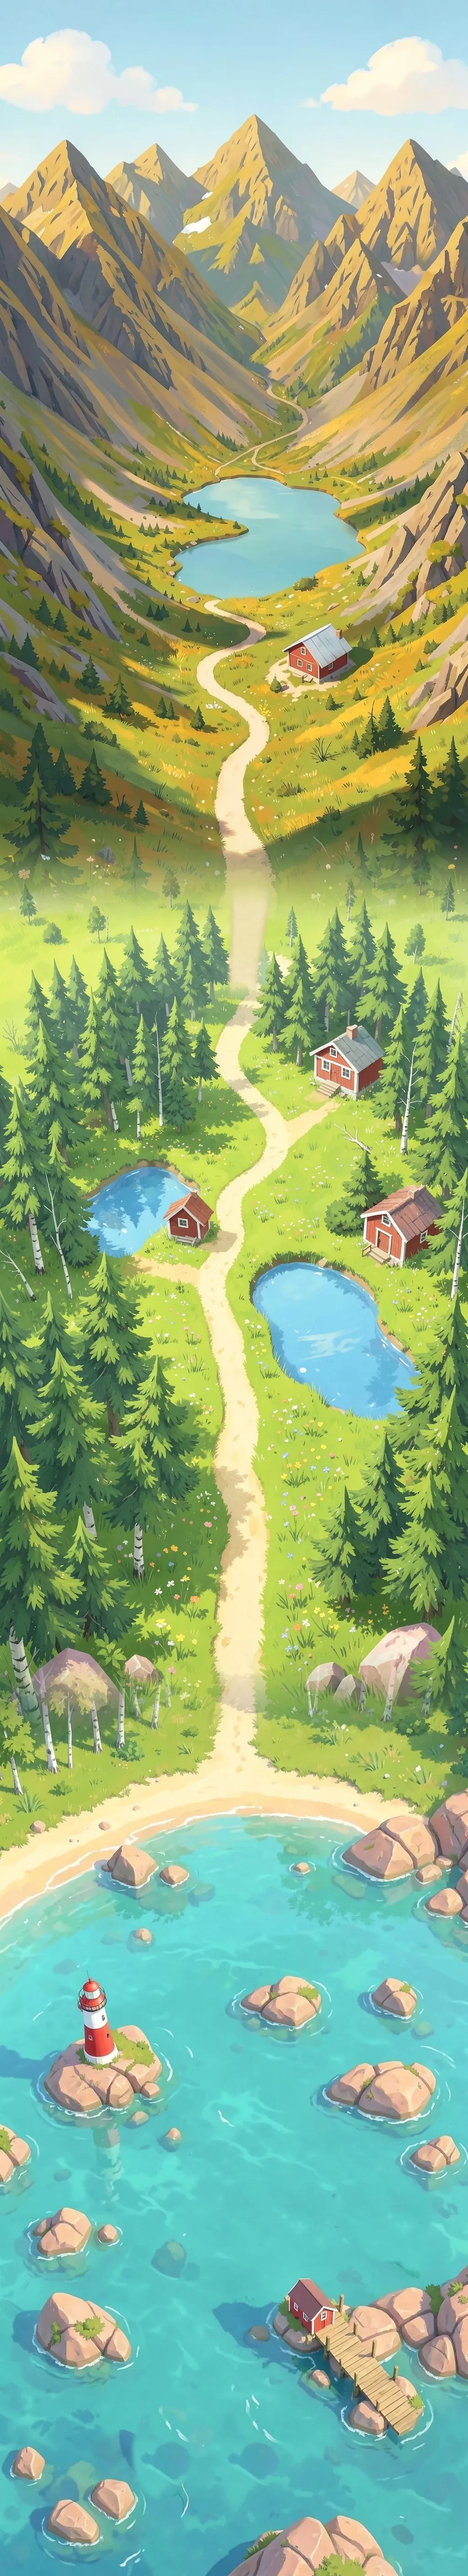
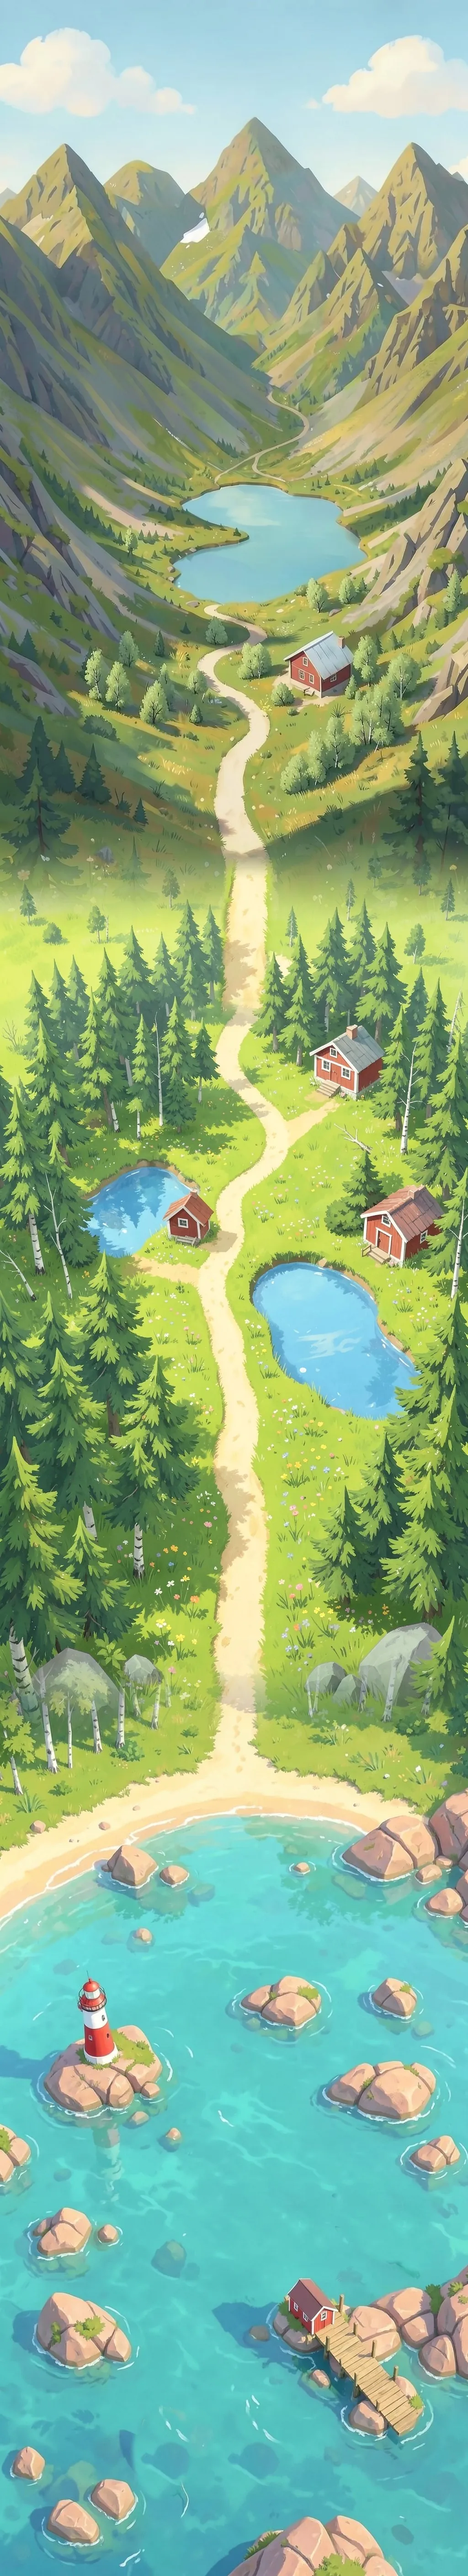
Rockets, fireworks and the pearl as their own tiles (0.17.0)
Jonas chose option A: specials are their own pictures with no kind, as
in the big puzzle games. Four in a row leaves a rocket lying along the
line it clears, an L or T leaves fireworks, and five in a row leaves a
pearl showing every kind, replacing the compass he found unclear. A
special goes off when tapped (one move), swapped with any neighbour or
cleared by something else. Also takes the corrected map image and nodes.

Claude-Session: https://claude.ai/code/session_01NPdWPZWdpsnwHPQWEvx24M

Changed region(s): [[0.0, 0.0312, 1.0, 0.4062], [0.6562, 0.625, 0.9375, 0.6562], [0.125, 0.625, 0.3438, 0.6875]]

diff --git a/src/game/Match3Scene.ts b/src/game/Match3Scene.ts
@@ -1,6 +1,6 @@
 import { play as playSound, playMatch } from '../lib/audio/sound';
 import Phaser from 'phaser';
-import { BOMB, type Cell, type Match3, type Special, type Step } from '../lib/match3/engine';
+import { BOMB, isFree, type Cell, type Match3, type Special, type Step } from '../lib/match3/engine';
 import { TILES } from '../lib/match3/levels';
 import { DEEP, FRAME } from './palette';
 
@@ -9,7 +9,8 @@ type Tile = Phaser.GameObjects.Container;
 /**
  * Draws a Match3 board and animates its steps. Svelte puts the engine in the
  * registry as 'match3'; the scene tells Svelte about each finished move with
- * the game event 'match3:moved'. Tap two neighbours or swipe to swap.
+ * the game event 'match3:moved'. Tap two neighbours or swipe to swap; a tap on
+ * a rocket, fireworks or the pearl sets it off.
  */
 export class Match3Scene extends Phaser.Scene {
   private engine?: Match3;
@@ -40,6 +41,7 @@ export class Match3Scene extends Phaser.Scene {
 
   preload(): void {
     for (const name of TILES) this.load.image(`tile-${name}`, `/art/tiles/${name}.png`);
+    for (const name of ['raket', 'fyrverkeri', 'parla']) this.load.image(`sp-${name}`, `/art/tiles/${name}.png`);
   }
 
   create(): void {
@@ -235,92 +237,24 @@ export class Match3Scene extends Phaser.Scene {
 
   private makeTile(kind: number, at: { x: number; y: number }, special: Special = null): Tile {
     const size = this.cell * 0.86;
-    if (kind === BOMB) return this.add.container(at.x, at.y, [this.compass(size)]).setDepth(1);
-    const parts: Phaser.GameObjects.GameObject[] = [];
-    if (special) parts.push(this.specialMark(special, size));
-    const shadow = this.add.image(0, 2 * this.k, `tile-${TILES[kind]}`).setDisplaySize(size, size).setTint(0x000000).setAlpha(0.25);
-    const img = this.add.image(0, 0, `tile-${TILES[kind]}`).setDisplaySize(size, size);
-    parts.push(shadow, img);
-    if (special === 'row' || special === 'col') parts.push(this.arrows(special, size));
-    return this.add.container(at.x, at.y, parts).setDepth(1);
-  }
-
-  /** Behind a special tile: a warm glow, and a lifebuoy ring for the area tile. */
-  private specialMark(special: Special, size: number): Phaser.GameObjects.Graphics {
-    const g = this.add.graphics();
-    g.fillStyle(0xffe7a3, 0.85).fillCircle(0, 0, size * 0.5);
-    if (special === 'area') {
-      const w = size * 0.11;
-      for (let i = 0; i < 8; i++) {
-        g.lineStyle(w, i % 2 ? 0xffffff : 0xc0392b, 1);
-        g.beginPath();
-        g.arc(0, 0, size * 0.47, (i * Math.PI) / 4, ((i + 1) * Math.PI) / 4);
-        g.strokePath();
-      }
+    if (!isFree(kind)) {
+      const shadow = this.add.image(0, 2 * this.k, `tile-${TILES[kind]}`).setDisplaySize(size, size).setTint(0x000000).setAlpha(0.25);
+      const img = this.add.image(0, 0, `tile-${TILES[kind]}`).setDisplaySize(size, size);
+      return this.add.container(at.x, at.y, [shadow, img]).setDepth(1);
     }
-    return g;
-  }
-
-  /** Over a row or column tile: two white arrows pointing the way it clears. */
-  /**
-   * Over a row or column tile: white stripes across the tile and one big
-   * double arrow along the line it clears (Jonas: the small arrows were
-   * unclear). The stripes run the same way as the arrow.
-   */
-  private arrows(special: 'row' | 'col', size: number): Phaser.GameObjects.Graphics {
-    const g = this.add.graphics();
-    const across = special === 'row';
-    const half = size * 0.5;
-    // stripes
-    g.fillStyle(0xffffff, 0.55);
-    for (const o of [-0.26, 0, 0.26]) {
-      const t = size * 0.07;
-      if (across) g.fillRect(-half, o * size - t / 2, size, t);
-      else g.fillRect(o * size - t / 2, -half, t, size);
-    }
-    // the arrow: a shaft and two heads reaching past the tile edges
-    const len = size * 0.62;
-    const head = size * 0.2;
-    const w = size * 0.09;
-    const draw = (fill: number, grow: number) => {
-      g.fillStyle(fill, 1);
-      const L = len + grow;
-      const H = head + grow;
-      const W = w + grow;
-      if (across) {
-        g.fillRect(-L + H, -W / 2, 2 * (L - H), W);
-        g.fillTriangle(-L, 0, -L + H, -H * 0.8, -L + H, H * 0.8);
-        g.fillTriangle(L, 0, L - H, -H * 0.8, L - H, H * 0.8);
-      } else {
-        g.fillRect(-W / 2, -L + H, W, 2 * (L - H));
-        g.fillTriangle(0, -L, -H * 0.8, -L + H, H * 0.8, -L + H);
-        g.fillTriangle(0, L, -H * 0.8, L - H, H * 0.8, L - H);
-      }
-    };
-    draw(DEEP, this.k * 3); // outline
-    draw(0xffd34d, 0);
-    return g;
-  }
-
-  /** The compass from five in a row: a gold rim and an eight-pointed star. */
-  private compass(size: number): Phaser.GameObjects.Graphics {
-    const g = this.add.graphics();
-    const R = size * 0.46;
-    g.fillStyle(0x000000, 0.25).fillCircle(0, 2 * this.k, R);
-    g.fillStyle(0xd9a441, 1).fillCircle(0, 0, R);
-    g.fillStyle(0xfff8ec, 1).fillCircle(0, 0, R * 0.84);
-    const star = (len: number, color: number, offset: number) => {
-      for (let i = 0; i < 4; i++) {
-        const t = offset + (i * Math.PI) / 2;
-        const tip = { x: Math.cos(t) * len, y: Math.sin(t) * len };
-        const l = { x: Math.cos(t + Math.PI / 2) * len * 0.22, y: Math.sin(t + Math.PI / 2) * len * 0.22 };
-        g.fillStyle(color, 1).fillTriangle(tip.x, tip.y, l.x, l.y, -l.x, -l.y);
-      }
-    };
-    star(R * 0.62, 0x2c5d7c, Math.PI / 4);
-    star(R * 0.8, 0xb8382a, -Math.PI / 2);
-    g.fillStyle(0xd9a441, 1).fillCircle(0, 0, R * 0.12);
-    return g;
+    // Option A (Jonas, 2026-11-17): specials are their own pictures, with no kind.
+    // A rocket lies along the line it clears; the pearl shows every kind it can take.
+    const name = kind === BOMB ? 'parla' : special === 'area' ? 'fyrverkeri' : 'raket';
+    const glow = this.add.graphics();
+    glow.fillStyle(0xffe7a3, 0.8).fillCircle(0, 0, size * 0.5);
+    const big = kind === BOMB ? size : special === 'area' ? size * 0.98 : size * 1.15;
+    const shadow = this.add.image(0, 2 * this.k, `sp-${name}`).setDisplaySize(big, big).setTint(0x000000).setAlpha(0.25);
+    const img = this.add.image(0, 0, `sp-${name}`).setDisplaySize(big, big);
+    if (special === 'col') { shadow.setAngle(-90); img.setAngle(-90); }
+    const t = this.add.container(at.x, at.y, [glow, shadow, img]).setDepth(1);
+    // a slow breath so the player sees it can be used
+    this.tweens.add({ targets: glow, alpha: 0.35, duration: 700, yoyo: true, repeat: -1, ease: 'Sine.easeInOut' });
+    return t;
   }
 
   /** A quick flash where a special went off. */
@@ -375,6 +309,11 @@ export class Match3Scene extends Phaser.Scene {
       void this.swap(s, cell);
       return;
     }
+    if (this.engine && isFree(this.engine.board[cell.r][cell.c])) {
+      this.select(null);
+      void this.fire(cell);
+      return;
+    }
     this.select(s && s.r === cell.r && s.c === cell.c ? null : cell);
   }
 
@@ -409,6 +348,27 @@ export class Match3Scene extends Phaser.Scene {
     }
     this.tiles[a.r][a.c] = tb;
     this.tiles[b.r][b.c] = ta;
+    for (const [i, step] of result.steps.entries()) await this.play(step, i);
+    if (result.shuffled) this.build();
+    this.busy = false;
+    this.drawHint();
+    this.drawCursor();
+    this.game.events.emit('match3:moved', result);
+    this.resetIdle();
+  }
+
+  /** A tapped special goes off where it stands; it costs a move like a swap. */
+  private async fire(cell: Cell): Promise<void> {
+    const e = this.engine;
+    if (!e || this.busy || e.status() !== 'playing') return;
+    this.busy = true;
+    for (const h of this.hintTweens) h.destroy();
+    this.hintTweens = [];
+    const t = this.tiles[cell.r][cell.c];
+    if (t) await this.tween(t, { scale: 1.25 }, 110);
+    const result = e.fire(cell);
+    if (!result.valid) { if (t) t.setScale(1); this.busy = false; return; }
+    playSound('swap');
     for (const [i, step] of result.steps.entries()) await this.play(step, i);
     if (result.shuffled) this.build();
     this.busy = false;

diff --git a/src/lib/match3/engine.ts b/src/lib/match3/engine.ts
@@ -11,11 +11,12 @@
  * most games end close to the goal, won or lost by a hair. With rigging off,
  * every new tile is uniformly random.
  *
- * Special tiles (Jonas, 2026-11-17), free and earned by skill: four in a row
- * leaves a tile that clears its row or column when it goes, an L or T shape
- * leaves one that clears the 3x3 around it, and five in a row leaves a
- * compass (BOMB) that, swapped with a neighbour, clears every tile of that
- * kind. A special that is cleared by anything sets off its own effect.
+ * Special tiles (Jonas, 2026-11-17, option A), free and earned by skill. They
+ * have no kind of their own and never match: four in a row leaves a rocket
+ * that clears its row or column, an L or T shape leaves fireworks that clear
+ * the 3x3 around them (both POWER), and five in a row leaves a pearl (BOMB)
+ * that clears every tile of one kind. A special goes off when it is tapped
+ * (one move), swapped with any neighbour, or cleared by anything else.
  */
 import type { Goal, Level } from './levels';
 import { pick, type Rng } from './rng';
@@ -43,6 +44,10 @@ export type Mood = 'warm' | 'cool' | 'neutral';
 const EMPTY = -1;
 /** The compass from five in a row. It has no kind of its own and never matches. */
 export const BOMB = 99;
+/** A rocket or fireworks tile; which one is in `special`. */
+export const POWER = 98;
+/** A tile with no kind of its own: it goes off instead of matching. */
+export const isFree = (k: number): boolean => k === BOMB || k === POWER;
 
 export class Match3 {
   readonly level: Level;
@@ -129,8 +134,10 @@ export class Match3 {
       return { valid: false, steps: [], shuffled: false };
     }
     this.swapCells(a, b);
-    const bombAt = this.board[a.r][a.c] === BOMB ? a : this.board[b.r][b.c] === BOMB ? b : null;
-    if (!bombAt && this.findMatches().length === 0) {
+    const ka = this.board[a.r][a.c];
+    const kb = this.board[b.r][b.c];
+    const free = isFree(ka) || isFree(kb);
+    if (!free && this.findMatches().length === 0) {
       this.swapCells(a, b);
       return { valid: false, steps: [], shuffled: false };
     }
@@ -138,11 +145,18 @@ export class Match3 {
     this.movesUsed++;
     const steps: Step[] = [];
     let chain = 1;
-    if (bombAt) {
-      const other = bombAt === a ? b : a;
-      const kind = this.board[other.r][other.c];
-      const hit = kind === BOMB ? this.allCells() : [bombAt, ...this.cellsOf(kind)];
-      steps.push(this.resolve(hit, chain++, [], [{ cell: bombAt, special: 'bomb' }]));
+    if (free) {
+      const bombAt = ka === BOMB ? a : kb === BOMB ? b : null;
+      if (bombAt) {
+        const other = bombAt === a ? b : a;
+        const kind = this.board[other.r][other.c];
+        // two pearls clear the board; a pearl and a rocket or fireworks take
+        // the most common kind and set the other one off too
+        const hit = kind === BOMB ? this.allCells() : kind === POWER ? [bombAt, other, ...this.cellsOf(this.commonKind())] : [bombAt, ...this.cellsOf(kind)];
+        steps.push(this.resolve(hit, chain++, [], [{ cell: bombAt, special: 'bomb' }]));
+      } else {
+        steps.push(this.resolve([a, b].filter((x) => isFree(this.board[x.r][x.c])), chain++));
+      }
     }
     while (this.status() !== 'won') {
       const groups = this.findGroups();
@@ -159,6 +173,14 @@ export class Match3 {
     return { valid: true, steps, shuffled };
   }
 
+  /** Tapping a special sets it off where it stands, for one move. */
+  fire(cell: Cell): SwapResult {
+    if (this.status() !== 'playing' || !this.inside(cell) || !isFree(this.board[cell.r][cell.c])) return { valid: false, steps: [], shuffled: false };
+    this.movesLeft--;
+    this.movesUsed++;
+    return this.settle([cell]);
+  }
+
   /** The hammer: removes one tile without using a move, then lets the board settle. */
   smash(cell: Cell): SwapResult {
     if (this.status() !== 'playing' || !this.inside(cell)) return { valid: false, steps: [], shuffled: false };
@@ -169,6 +191,13 @@ export class Match3 {
     const out: Cell[] = [];
     for (let r = 0; r < this.rows; r++) for (let c = 0; c < this.cols; c++) out.push({ r, c });
     return out;
+  }
+
+  /** The kind with the most tiles on the board. */
+  private commonKind(): number {
+    const counts = new Map<number, number>();
+    for (const x of this.allCells()) { const k = this.board[x.r][x.c]; if (k >= 0 && !isFree(k)) counts.set(k, (counts.get(k) ?? 0) + 1); }
+    return [...counts.entries()].sort((p, q) => q[1] - p[1])[0]?.[0] ?? -2;
   }
 
   private cellsOf(kind: number): Cell[] {
@@ -204,7 +233,7 @@ export class Match3 {
           const a = { r, c };
           const b = { r: r + dr, c: c + dc };
           if (!this.inside(b)) continue;
-          if (this.board[a.r][a.c] === BOMB || this.board[b.r][b.c] === BOMB) return [a, b];
+          if (isFree(this.board[a.r][a.c]) || isFree(this.board[b.r][b.c])) return [a, b];
           this.swapCells(a, b);
           const ok = this.findMatches().length > 0;
           this.swapCells(a, b);
@@ -238,7 +267,7 @@ export class Match3 {
    */
   findGroups(): { cells: Cell[]; longest: number; across: boolean; down: boolean }[] {
     const runs: { cells: Cell[]; dir: 'h' | 'v' }[] = [];
-    const real = (k: number) => k !== EMPTY && k !== BOMB;
+    const real = (k: number) => k !== EMPTY && !isFree(k);
     for (let r = 0; r < this.rows; r++) {
       let start = 0;
       for (let c = 1; c <= this.cols; c++) {
@@ -299,7 +328,7 @@ export class Match3 {
         const goal = this.level.goal;
         if (goal.type === 'collect' && kind === goal.kind) this.collected++;
       }
-      made.push({ cell: at, kind: special === 'bomb' ? BOMB : kind, special: special === 'bomb' ? null : special });
+      made.push({ cell: at, kind: special === 'bomb' ? BOMB : POWER, special: special === 'bomb' ? null : special });
     }
     return this.resolve(cleared, chain, made);
   }
@@ -311,7 +340,7 @@ export class Match3 {
       for (let j = 0; j < other; j++) {
         let run = 1;
         for (let i = 1; i <= len; i++) {
-          const same = i < len && get(i, j) !== EMPTY && get(i, j) !== BOMB && get(i, j) === get(i - 1, j);
+          const same = i < len && get(i, j) !== EMPTY && !isFree(get(i, j)) && get(i, j) === get(i - 1, j);
           if (same) { run++; continue; }
           if (run >= 3) for (let k = i - run; k < i; k++) mark(k, j);
           run = 1;
@@ -345,11 +374,8 @@ export class Match3 {
       if (sp === 'area') for (let dr = -1; dr <= 1; dr++) for (let dc = -1; dc <= 1; dc++) queue.push({ r: r + dr, c: c + dc });
       if (sp) blasts.push({ cell: { r, c }, special: sp });
       if (this.board[r][c] === BOMB && !blasts.some((b) => b.cell.r === r && b.cell.c === c)) {
-        // a compass hit by a blast takes the most common kind with it
-        const counts = new Map<number, number>();
-        for (const x of this.allCells()) { const k = this.board[x.r][x.c]; if (k >= 0 && k !== BOMB) counts.set(k, (counts.get(k) ?? 0) + 1); }
-        const top = [...counts.entries()].sort((p, q) => q[1] - p[1])[0]?.[0];
-        if (top !== undefined) queue.push(...this.cellsOf(top));
+        // a pearl tapped or hit by a blast takes the most common kind with it
+        queue.push(...this.cellsOf(this.commonKind()));
         blasts.push({ cell: { r, c }, special: 'bomb' });
       }
     }

diff --git a/tests/specials.test.ts b/tests/specials.test.ts
@@ -1,5 +1,5 @@
 import { describe, expect, it } from 'vitest';
-import { BOMB, Match3 } from '../src/lib/match3/engine';
+import { BOMB, POWER, Match3 } from '../src/lib/match3/engine';
 import type { Level } from '../src/lib/match3/levels';
 
 const level: Level = { id: 99, name: 'Test', rows: 6, cols: 6, kinds: 6, moves: 10, rigTarget: 1, goal: { type: 'score', score: 1e9 } };
@@ -23,7 +23,7 @@ describe('special tiles', () => {
     const r = g.trySwap({ r: 1, c: 2 }, { r: 0, c: 2 });
     expect(r.valid).toBe(true);
     // 0,0,0,0 across row 0 -> a row tile at (0,2)
-    expect(r.steps[0].made[0]).toMatchObject({ cell: { r: 0, c: 2 }, special: 'row' });
+    expect(r.steps[0].made[0]).toMatchObject({ cell: { r: 0, c: 2 }, special: 'row', kind: POWER });
   });
 
   it('an L shape leaves an area tile, five in a row a compass', () => {
@@ -53,5 +53,33 @@ describe('special tiles', () => {
     expect(r.valid).toBe(true);
     expect(r.steps[0].cleared).toHaveLength(1 + 6);
     expect(g.findMove()).not.toBeNull();
+  });
+
+  it('a rocket has no kind: it never matches, and a tap sets it off for one move', () => {
+    const b = base();
+    b[2][0] = POWER; b[2][1] = POWER; b[2][2] = POWER;
+    const g = new Match3(level, rng, false, b);
+    g.special[2][0] = 'row'; g.special[2][1] = 'row'; g.special[2][2] = 'row';
+    expect(g.findMatches()).toHaveLength(0);
+    const r = g.fire({ r: 2, c: 1 });
+    expect(r.valid).toBe(true);
+    expect(g.movesLeft).toBe(level.moves - 1);
+    expect(r.steps[0].cleared.filter((x) => x.r === 2)).toHaveLength(6);
+  });
+
+  it('swapping fireworks with any neighbour sets them off where they land', () => {
+    const b = base();
+    b[3][3] = POWER;
+    const g = new Match3(level, rng, false, b);
+    g.special[3][3] = 'area';
+    const r = g.trySwap({ r: 3, c: 3 }, { r: 3, c: 4 });
+    expect(r.valid).toBe(true);
+    expect(r.steps[0].blasts[0]).toMatchObject({ cell: { r: 3, c: 4 }, special: 'area' });
+    expect(r.steps[0].cleared.length).toBeGreaterThanOrEqual(6);
+  });
+
+  it('a normal tile cannot be fired by a tap', () => {
+    const g = new Match3(level, rng, false, base());
+    expect(g.fire({ r: 0, c: 0 }).valid).toBe(false);
   });
 });

diff --git a/src/ui/PuzzleView.svelte b/src/ui/PuzzleView.svelte
@@ -79,10 +79,10 @@
 
   /** The first time each special tile is made, a short tip says what it does. */
   const SPECIAL_TIPS: Record<string, string> = {
-    row: 'Fyra i rad gav en pilbricka. Använd den i en rad, så sveps hela raden bort åt pilarnas håll.',
-    col: 'Fyra i rad gav en pilbricka. Använd den i en rad, så sveps hela kolumnen bort åt pilarnas håll.',
-    area: 'Ett L eller T gav en livboj. Använd den i en rad, så försvinner allt runt den.',
-    bomb: 'Fem i rad gav en kompass. Byt den med en bricka, så försvinner alla brickor av den sorten.',
+    row: 'Fyra i rad gav en raket. Tryck på den eller byt den med en granne, så flyger den genom hela raden.',
+    col: 'Fyra i rad gav en raket. Tryck på den eller byt den med en granne, så flyger den genom hela kolumnen.',
+    area: 'Ett L eller T gav fyrverkerier. Tryck på dem eller byt dem med en granne, så smäller allt runt omkring.',
+    bomb: 'Fem i rad gav en pärla. Byt den med en bricka, så försvinner alla brickor av den sorten.',
   };
   function noteSpecials(r: SwapResult) {
     const made = r.steps.flatMap((s) => s.made.map((m) => m.special ?? 'bomb'));
